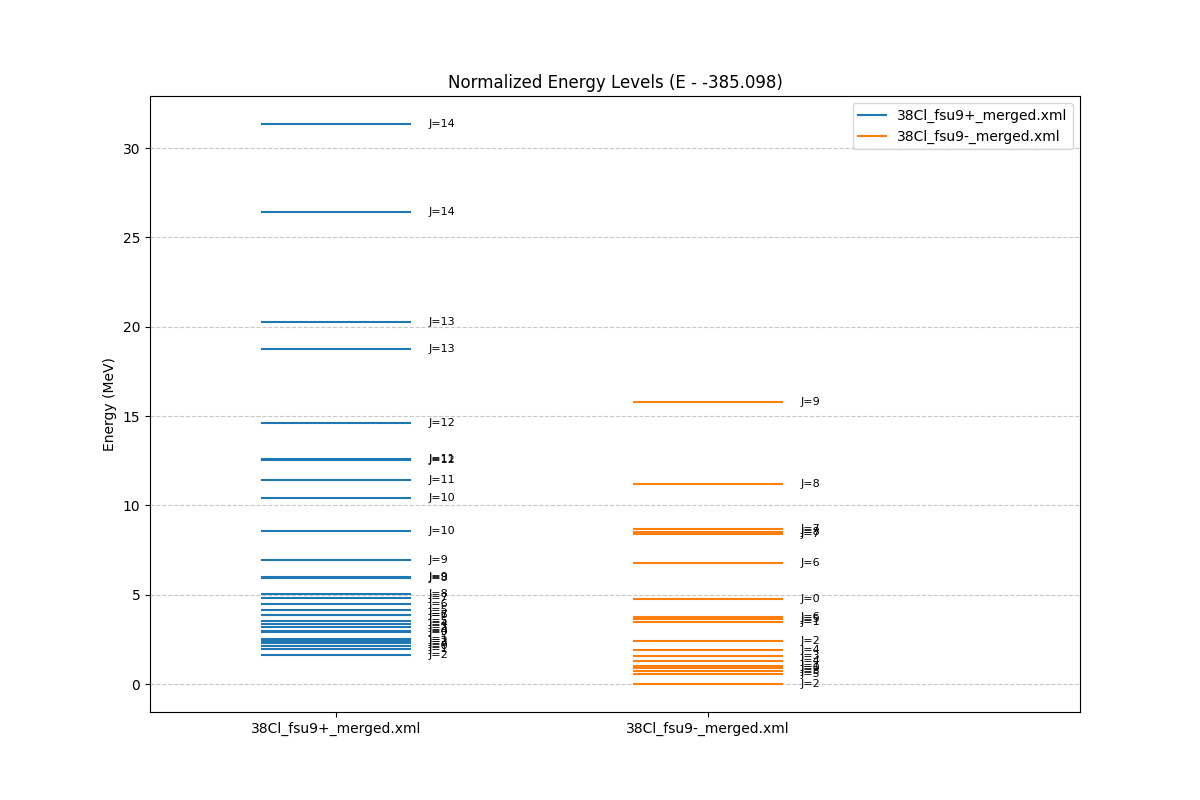
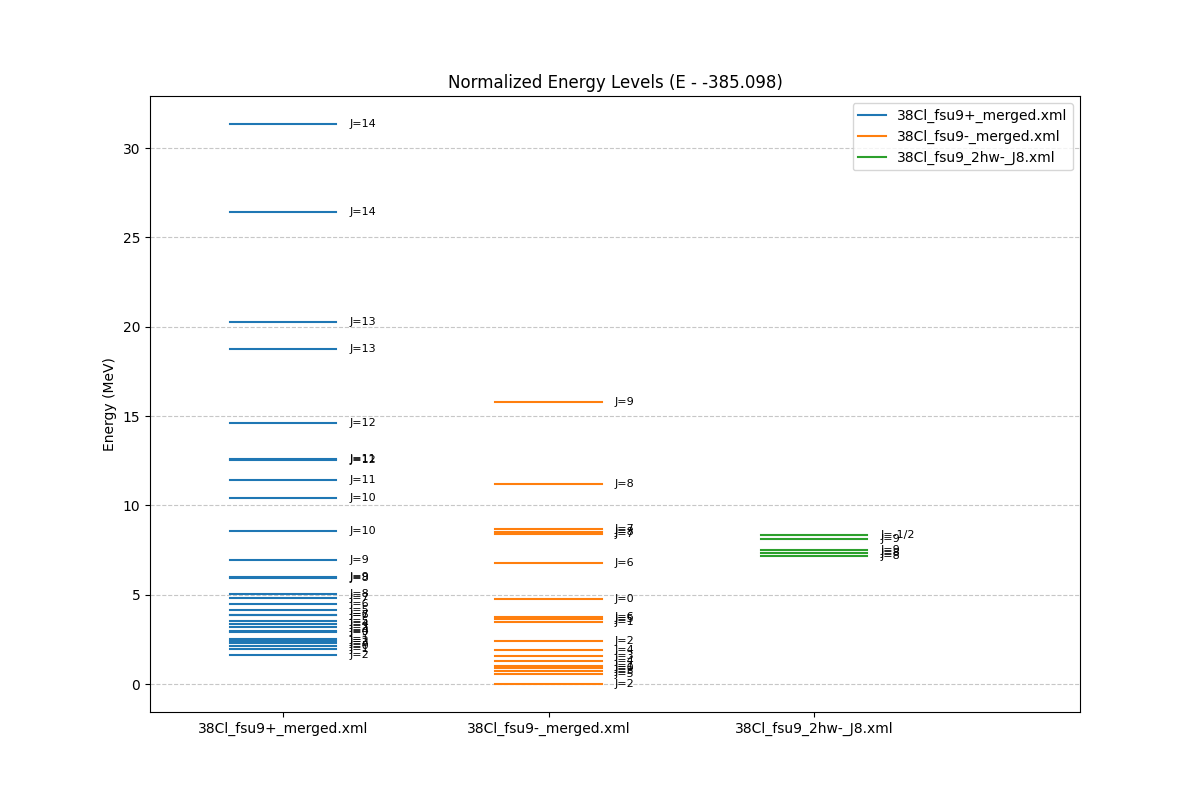
...

diff --git a/results/plot_states.py b/results/plot_states.py
@@ -95,7 +95,7 @@ def plot_energies(files):
     print(f"Plot saved to {output_file}")
 
 if __name__ == "__main__":
-    files = ['38Cl_fsu9+_merged.xml', '38Cl_fsu9-_merged.xml']
+    files = ['38Cl_fsu9+_merged.xml', '38Cl_fsu9-_merged.xml', '38Cl_fsu9_2hw-_J8.xml']
     # Ensure we are using absolute paths or relative to the script location if running from there
     # The user is in /Users/calemhoffman/Documents/GitHub/cosmo/results/ based on the file paths
     # I will assume the script is run from that directory or I should provide full paths.
